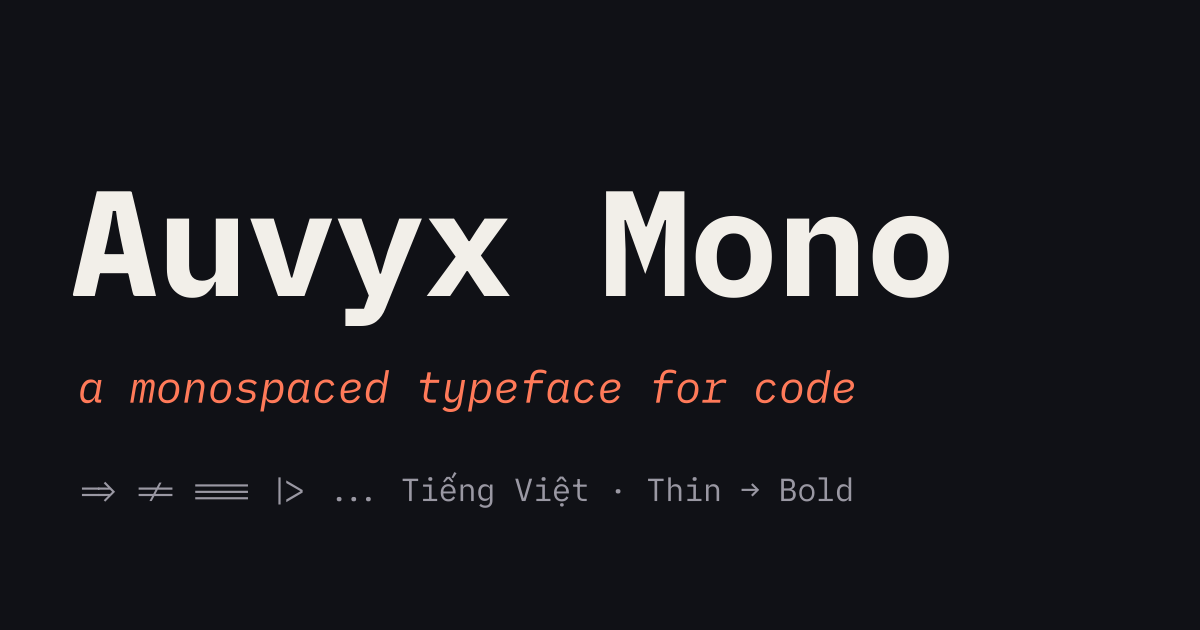
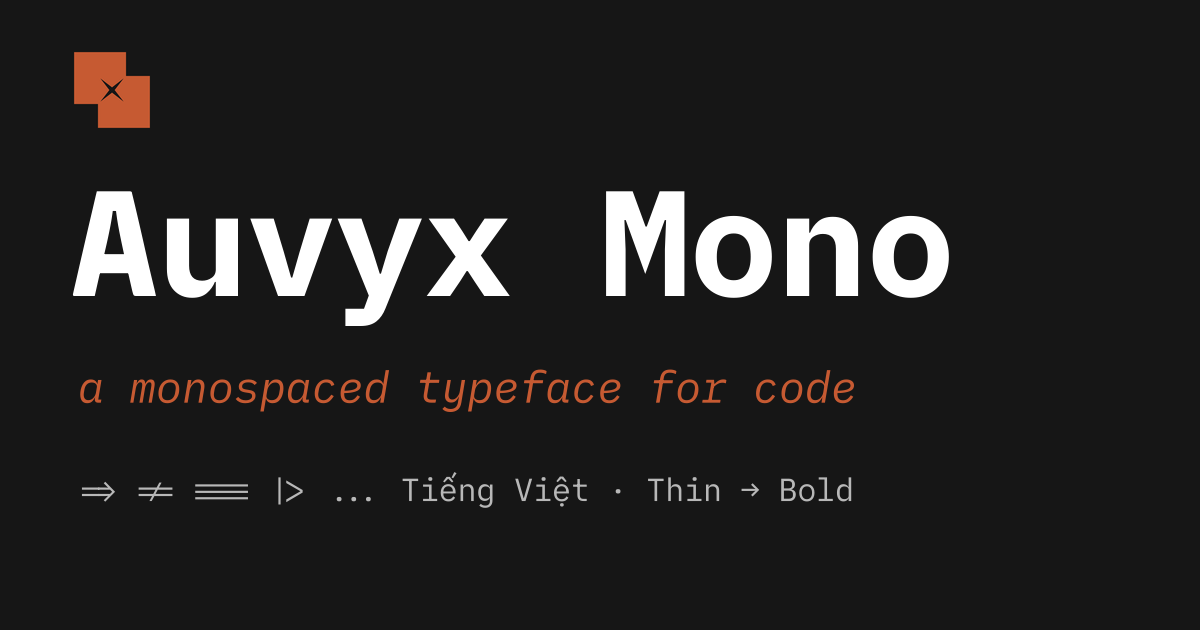
Apply Auvyx brand and improve mobile font specimen

diff --git a/website/src/styles/global.css b/website/src/styles/global.css
@@ -1,16 +1,18 @@
 :root {
-  --font: "Auvyx Mono", ui-monospace, SFMono-Regular, Menlo, Consolas, monospace;
+  --font: "Geist", Arial, sans-serif;
+  --font-title: "Recursive", "Auvyx Mono", monospace;
+  --font-mono: "Auvyx Mono", ui-monospace, SFMono-Regular, Menlo, Consolas, monospace;
   --maxw: 1180px;
-  --radius: 14px;
+  --radius: 0px;
 
-  --bg: #f5f3ee;
-  --bg-2: #ece9e1;
-  --card: #fffdf8;
-  --fg: #141418;
-  --muted: #6b6973;
-  --line: #dedad0;
-  --accent: #e0492a;
-  --accent-soft: #e0492a1a;
+  --bg: #ffffff;
+  --bg-2: #f4f4f4;
+  --card: #ffffff;
+  --fg: #161616;
+  --muted: #525252;
+  --line: #e0e0e0;
+  --accent: #c65a32;
+  --accent-soft: #c65a321a;
   --blue: #2c63d6;
 
   --tok-kw: #b8326b;
@@ -23,14 +25,14 @@
 }
 
 [data-theme="dark"] {
-  --bg: #0e0f13;
-  --bg-2: #14151b;
-  --card: #16171e;
-  --fg: #eeebe5;
-  --muted: #8f8c98;
-  --line: #262731;
-  --accent: #ff7a59;
-  --accent-soft: #ff7a591f;
+  --bg: #161616;
+  --bg-2: #222222;
+  --card: #1d1d1d;
+  --fg: #f7f7f7;
+  --muted: #b8b8b8;
+  --line: #3b3b3b;
+  --accent: #e88159;
+  --accent-soft: #e8815926;
   --blue: #7aa2ff;
 
   --tok-kw: #ff79b0;
@@ -63,55 +65,57 @@ body {
   transition: background-color .25s ease, color .25s ease;
 }
 
-/* Trình duyệt mặc định cho <code>/<pre> dùng font "monospace" của hệ thống (Menlo) — ép về Auvyx Mono */
-pre, code, kbd, samp, output, input, button, textarea, select { font-family: var(--font); }
+pre, code, kbd, samp, output { font-family: var(--font-mono); }
+input, button, textarea, select { font-family: var(--font); }
 
 a { color: inherit; text-decoration-color: var(--accent); text-underline-offset: 3px; }
 a:hover { color: var(--accent); }
 ::selection { background: var(--accent); color: var(--bg); }
 
-.wrap { width: min(var(--maxw), 100% - 40px); margin-inline: auto; }
+.wrap { width: min(var(--maxw), 100% - 48px); margin-inline: auto; }
+@media (max-width: 600px) { .wrap { width: calc(100% - 32px); } }
 
-section { padding: clamp(64px, 10vw, 120px) 0; border-top: 1px solid var(--line); }
+section { padding: clamp(64px, 10vw, 120px) 0; border-top: 1px solid var(--line); scroll-margin-top: 120px; }
 section:first-of-type { border-top: 0; }
 
 .eyebrow {
   display: inline-flex; align-items: center; gap: 10px;
-  font-size: 13px; letter-spacing: .08em; text-transform: uppercase;
+  font: 500 12px/1.5 var(--font-mono); letter-spacing: .06em; text-transform: uppercase;
   color: var(--accent); margin: 0 0 18px;
 }
 .eyebrow code { color: var(--muted); letter-spacing: 0; text-transform: none; }
 
-h1, h2, h3 { font-weight: 700; line-height: 1.08; margin: 0; letter-spacing: -0.01em; }
-h2 { font-size: clamp(30px, 5vw, 56px); max-width: 18ch; }
+h1, h2, h3 { font-family: var(--font-title); font-weight: 900; font-variation-settings: "MONO" 1, "CASL" 0, "CRSV" 0, "slnt" 0; line-height: 1.12; margin: 0; letter-spacing: -.02em; }
+h2 { font-size: clamp(30px, 4.2vw, 52px); max-width: 22ch; }
 h3 { font-size: 20px; }
 .lead { font-size: clamp(16px, 1.6vw, 19px); color: var(--muted); max-width: 62ch; margin: 20px 0 0; }
 
 .btn {
   display: inline-flex; align-items: center; gap: 10px;
-  font: inherit; font-weight: 600; font-size: 15px;
-  padding: 13px 20px; border-radius: 999px;
-  border: 1px solid var(--fg); background: var(--fg); color: var(--bg);
+  font: 600 14px/1.4 var(--font);
+  padding: 13px 20px; border-radius: var(--radius);
+  border: 1px solid var(--accent); background: var(--accent); color: #fff;
   text-decoration: none; cursor: pointer;
   transition: transform .15s ease, background-color .2s ease, color .2s ease, border-color .2s ease;
 }
-.btn:hover { transform: translateY(-1px); color: var(--bg); background: var(--accent); border-color: var(--accent); }
+.btn:hover { transform: translateY(-1px); color: #fff; background: #a84626; border-color: #a84626; }
 .btn.ghost { background: transparent; color: var(--fg); border-color: var(--line); }
-.btn.ghost:hover { border-color: var(--fg); color: var(--fg); background: transparent; }
+.btn.ghost:hover { border-color: var(--fg); color: var(--fg); background: var(--bg-2); }
 
 .card {
   background: var(--card); border: 1px solid var(--line); border-radius: var(--radius);
 }
 
 .chip {
-  font: inherit; font-size: 13px; color: var(--muted);
-  padding: 6px 12px; border-radius: 999px; border: 1px solid var(--line);
+  font: 500 13px/1.4 var(--font); color: var(--muted);
+  padding: 8px 12px; border-radius: var(--radius); border: 1px solid var(--line);
   background: transparent; cursor: pointer; transition: all .15s ease;
 }
 .chip:hover { color: var(--fg); border-color: var(--fg); }
 .chip[aria-pressed="true"] { color: var(--bg); background: var(--fg); border-color: var(--fg); }
 
 input[type="range"] { accent-color: var(--accent); width: 100%; }
+@media (max-width: 600px) { section { padding: 64px 0; scroll-margin-top: 110px; } }
 
 .visually-hidden {
   position: absolute !important; width: 1px; height: 1px; padding: 0; margin: -1px;

diff --git a/website/scripts/sync_font.py b/website/scripts/sync_font.py
@@ -104,14 +104,16 @@ def make_og(ttf_dir: Path) -> None:
         return pen.image(width=max(x, 1) * sc, height=1250 * sc, transform=(sc, 0, 0, sc, 0, 280 * sc), contain=False)
 
     W, H = 1200, 630
-    img = Image.new("RGB", (W, H), "#101116")
+    img = Image.new("RGB", (W, H), "#161616")
+    mark = Image.open(ROOT / "public" / "brand" / "mark-dark-1024.png").convert("RGB")
+    img.paste(mark.resize((84, 84), Image.Resampling.LANCZOS), (70, 48))
 
     def put(im, xy, color):
         img.paste(Image.new("RGB", im.size, color), xy, im.split()[-1])
 
-    put(text(ttf_dir / "AuvyxMono-Bold.ttf", "Auvyx Mono", 150), (70, 150), "#f2efe9")
-    put(text(ttf_dir / "AuvyxMono-Italic.ttf", "a monospaced typeface for code", 44), (78, 360), "#ff7a59")
-    put(text(ttf_dir / "AuvyxMono-Regular.ttf", "=> != === |> ... Tiếng Việt · Thin → Bold", 32), (80, 470), "#9a98a3")
+    put(text(ttf_dir / "AuvyxMono-Bold.ttf", "Auvyx Mono", 150), (70, 150), "#ffffff")
+    put(text(ttf_dir / "AuvyxMono-Italic.ttf", "a monospaced typeface for code", 44), (78, 360), "#c65a32")
+    put(text(ttf_dir / "AuvyxMono-Regular.ttf", "=> != === |> ... Tiếng Việt · Thin → Bold", 32), (80, 470), "#b8b8b8")
     out = ROOT / "public" / "og.png"
     img.save(out, optimize=True)
 

diff --git a/website/README.md b/website/README.md
@@ -28,6 +28,10 @@ Vercel: import repo, chọn Root Directory là `website`, dùng framework preset
 
 GitHub Pages: workflow `.github/workflows/ci.yaml` build font và trang khi push lên `main`, rồi deploy tại https://lamtanloc512.github.io/auvyx_mono/. Repo cần bật Pages và gói GitHub phải hỗ trợ Pages cho repo đó.
 
+## Nhận diện thương hiệu
+
+Giao diện dùng màu, Dual Module mark và favicon từ brand kit v0.3 của `auvyx_llc` (`design_assets/`). Các asset đã được copy vào `public/brand/` và `public/` nên Vercel không cần truy cập repo kia. Tiêu đề dùng Recursive Mono Linear, UI dùng Geist; các mẫu chữ, code và type tester dùng Auvyx Mono. `scripts/sync_font.py` tạo lại ảnh `public/og.png` theo bảng màu brand.
+
 ## Cấu trúc
 
 ```
